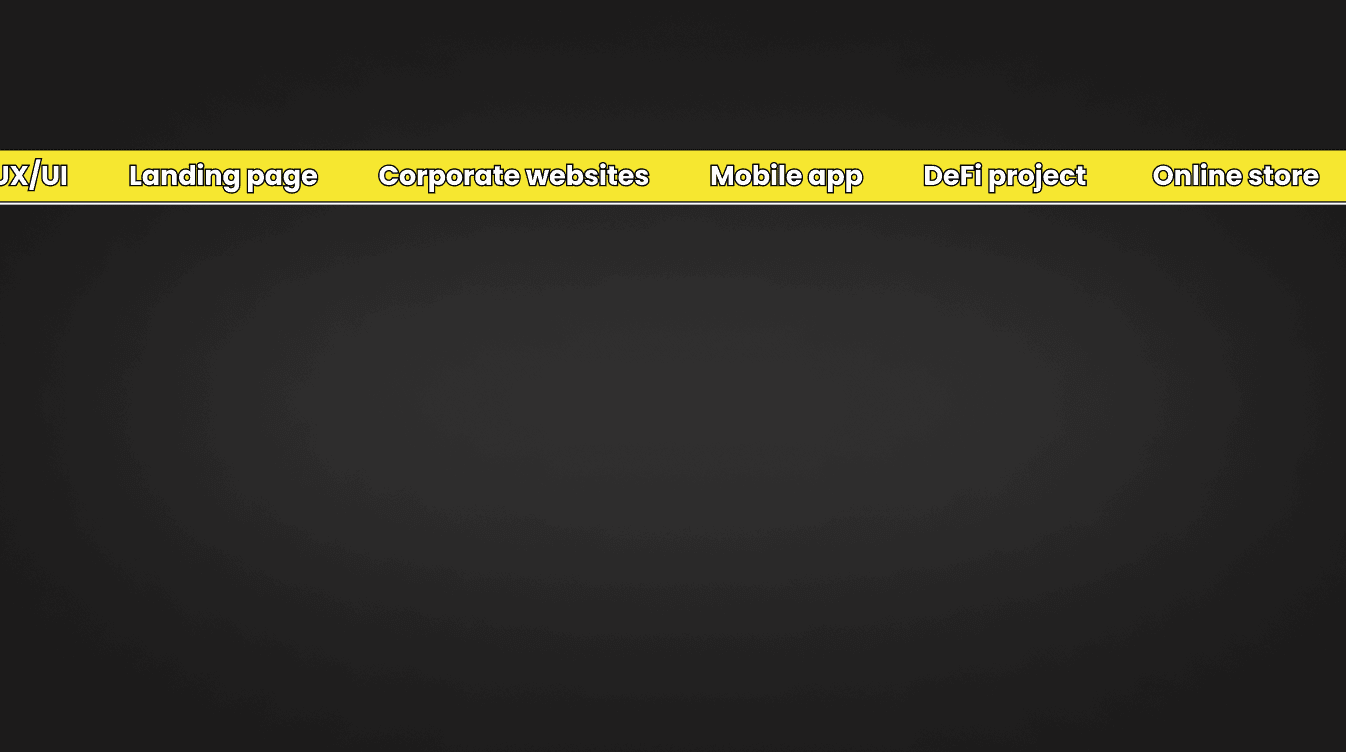
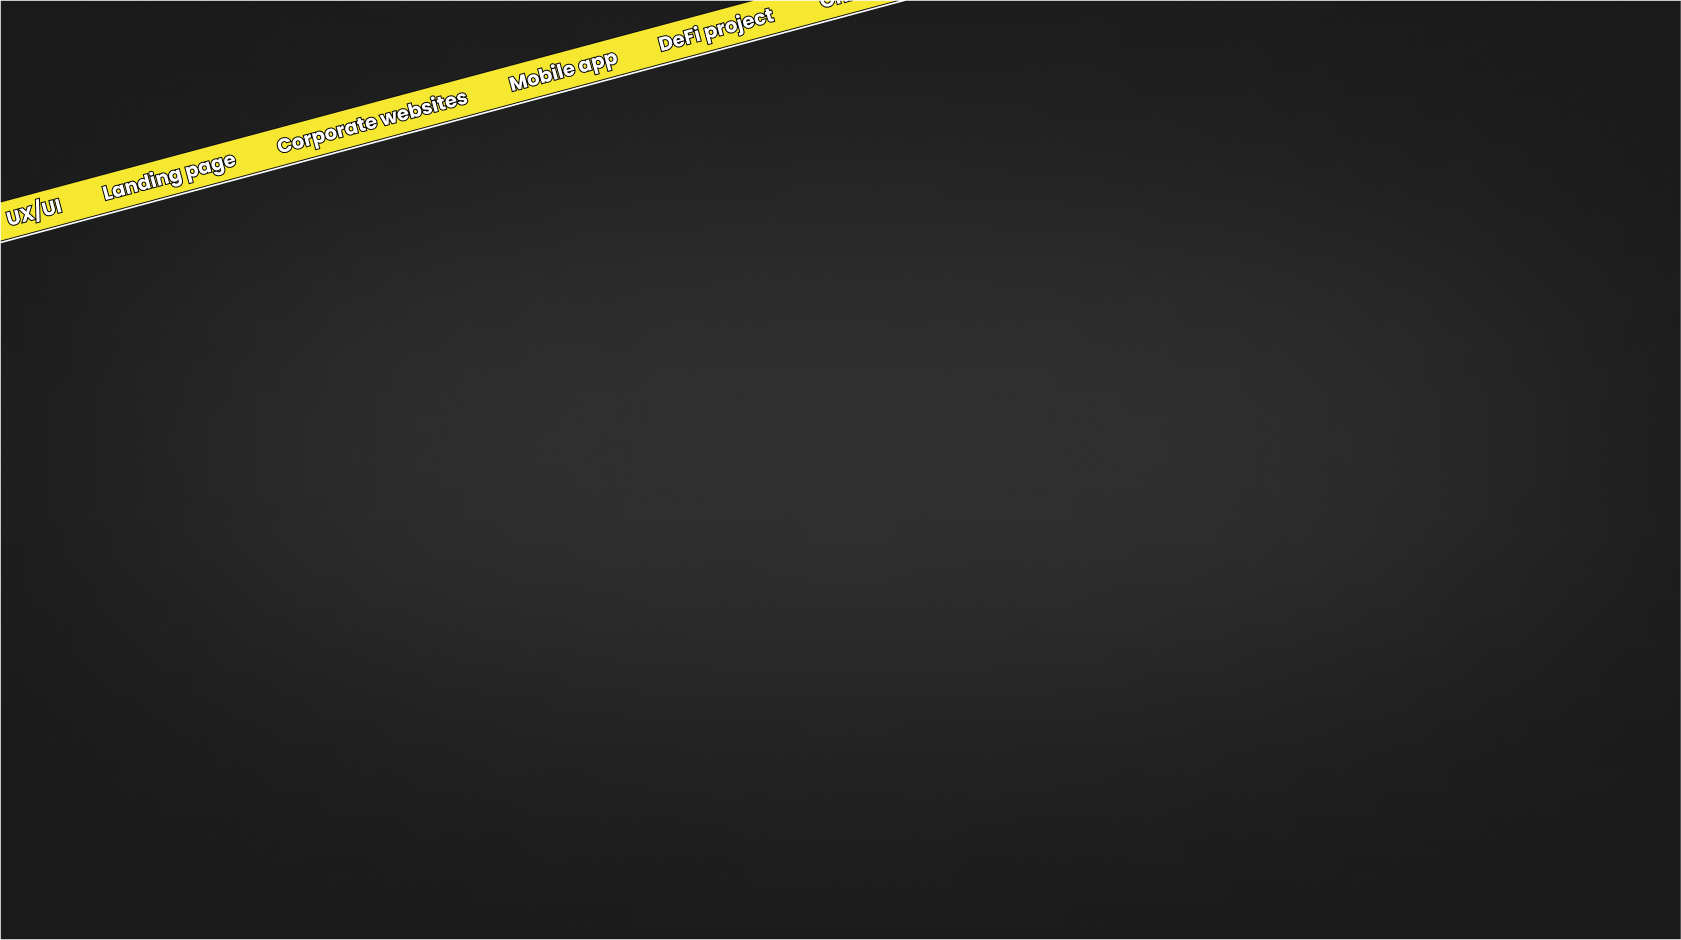
Changed font family from roboto to poppins

Changed region(s): [[0.0, 0.0, 1.0, 1.0]]

diff --git a/index.html b/index.html
@@ -5,7 +5,7 @@
   <title>Angela Sorokina's Profile</title>
   <meta name="viewport" content="width=device-width, initial-scale=1.0">
   <link rel="stylesheet" href="styles.css">
-  <link href="https://fonts.googleapis.com/css?family=Muli%7CRoboto:400,300,500,700,900" rel="stylesheet"></head>
+  <link href="https://fonts.googleapis.com/css2?family=Poppins:ital,wght@0,300;0,400;0,500;0,600;0,700;0,800;0,900;1,300;1,400;1,500;1,600;1,700;1,800;1,900&family=SUSE:wght@100..800&display=swap" rel="stylesheet"></head>
   <body>
 
     <div class="main-nav">

diff --git a/styles.css b/styles.css
@@ -7,7 +7,7 @@ body {
   margin: 0;
   padding: 0;
   text-align: center;
-  font-family: 'Roboto', sans-serif;
+  font-family: "Poppins", sans-serif;
   color: #222;
   background: #f7f5f0;
 }
@@ -85,8 +85,8 @@ header .profile-image:hover {
 }
 
 .tag {
-  background-color: #efefef;
-  color: black;
+  background-color: #F6E730;
+  color: #201F1F;
   padding: 10px;
   border-radius: 5px;
   display: table;
